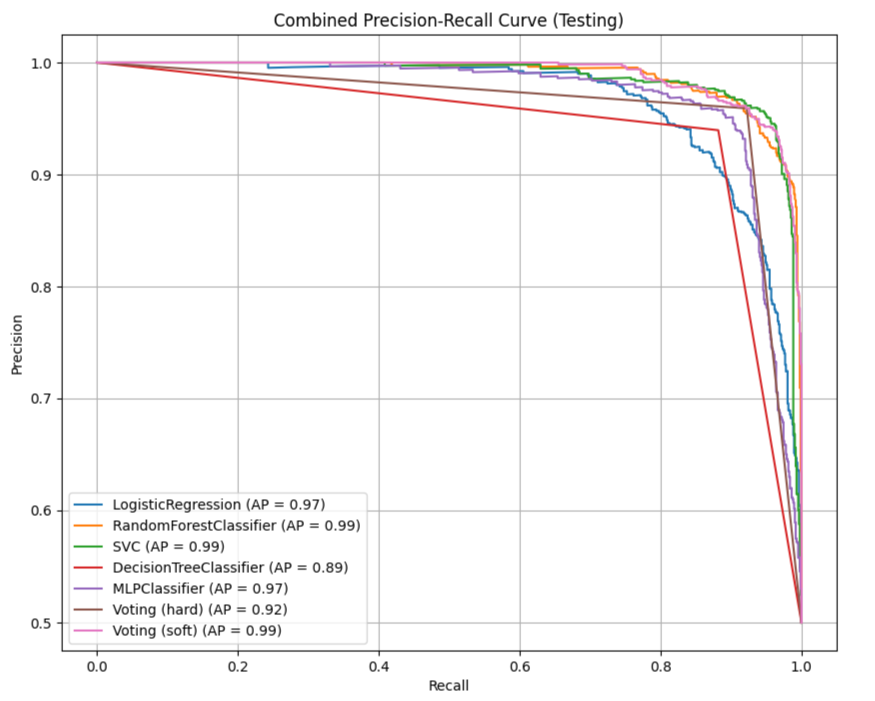
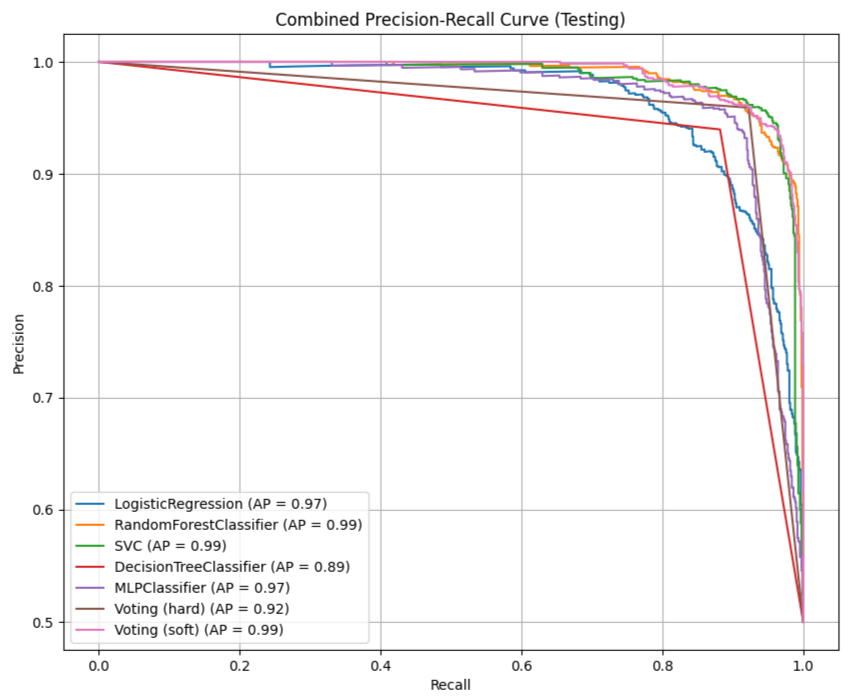
added combined lift gain plot

diff --git a/Project UI/tap_ts_app/src/components/ModelComparison.tsx b/Project UI/tap_ts_app/src/components/ModelComparison.tsx
@@ -79,11 +79,8 @@ function ModelComparison() {
         <Grid size={{ xs: 12, md: 4 }}>
           <Card variant="outlined">
             <CardContent>
-              <Typography variant="h6" component="h3">
-                Classification Report
-              </Typography>
               <img
-                src={`/images/${model}/classification_report.png`}
+                src={`/images/combined/combined_lg_curve.png`}
                 alt="Classification Report"
                 style={{ width: "100%", height: "auto" }}
               />

diff --git a/SVM_v2/model_performance_v2.py b/SVM_v2/model_performance_v2.py
@@ -14,6 +14,53 @@ import os
 import matplotlib.pyplot as plt
 from sklearn.inspection import permutation_importance
 
+def plot_lift_gain_curves(classifiers, X_test, y_test, save_folder):
+    # Plot Lift & Gain curves only
+    plt.figure(figsize=(12, 10))
+    
+    for classifier in classifiers:
+        if hasattr(classifier, "predict_proba"):
+            y_test_proba = classifier.predict_proba(X_test)[:, 1]
+        else:
+            y_test_proba = classifier.predict(X_test)
+
+        # Sort the probabilities in descending order
+        sorted_indices = np.argsort(y_test_proba)[::-1]
+        sorted_probs = y_test_proba[sorted_indices]
+        sorted_true = y_test[sorted_indices]
+
+        # Calculate Lift & Gain
+        total_positive = np.sum(y_test == 1)
+        total_negative = np.sum(y_test == 0)
+        
+        cumulative_positive = np.cumsum(sorted_true)  # True positives accumulated
+        gain = cumulative_positive / total_positive  # Gain curve
+        lift = gain / (np.arange(1, len(gain) + 1) / len(y_test))  # Lift curve
+        
+        # Label name for the classifier
+        if "VotingClassifier" in str(classifier):
+            voting_type = "hard" if classifier.voting == "hard" else "soft"
+            label_name = f"Voting ({voting_type})"
+        else:
+            label_name = str(classifier).split('(')[0]
+
+        # Plot Gain curve
+        plt.plot(np.arange(1, len(gain) + 1) / len(y_test), gain, label=f"{label_name} Gain Curve")
+        
+        # Plot Lift curve
+        plt.plot(np.arange(1, len(lift) + 1) / len(y_test), lift, label=f"{label_name} Lift Curve")
+    
+    # Add labels and title
+    plt.xlabel("Percentile of Samples")
+    plt.ylabel("Gain / Lift")
+    plt.title("Combined Lift and Gain Curves")
+    plt.legend(loc="lower left")
+    plt.grid()
+    
+    # Save the combined plot
+    plt.savefig(f"ensemble_performance/performance_metrics/combined_plot/{save_folder}/combined_lift_gain_curve.png")
+    plt.show()
+
 
 def plot_combined_performance_bar_plots(classifiers, X_train, y_train, X_test, y_test, save_folder):
     """

diff --git a/SVM_v2/ensemble_model.py b/SVM_v2/ensemble_model.py
@@ -15,7 +15,7 @@ from sklearn.tree import DecisionTreeClassifier
 from sklearn.neural_network import MLPClassifier
 from sklearn.metrics import accuracy_score, f1_score, roc_auc_score, precision_score, recall_score
 import csv
-from model_performance_v2 import ModelPerformance, plot_combined_roc_curves, plot_combined_precision_recall_curves, plot_combined_performance_bar_plots
+from model_performance_v2 import ModelPerformance, plot_combined_roc_curves, plot_combined_precision_recall_curves, plot_combined_performance_bar_plots,plot_lift_gain_curves
 import os
 
 # Random seed for reproducibility
@@ -253,7 +253,7 @@ def process_and_train(data, columns_to_drop, class_imb, results):
     )
     
     plot_combined_performance_bar_plots(
-        fitted_classifiers, #include only the soft voting classifier from the second list
+        fitted_classifiers, 
         X_train,
         y_train,
         X_test,
@@ -261,6 +261,12 @@ def process_and_train(data, columns_to_drop, class_imb, results):
         f"bar_{class_imb}"
     )
 
+    plot_lift_gain_curves(
+        fitted_classifiers, 
+        X_test,
+        y_test,
+        f"lg_{class_imb}"
+    )
 
 # ===================== MAIN EXECUTION =====================
 # Initialize results list
